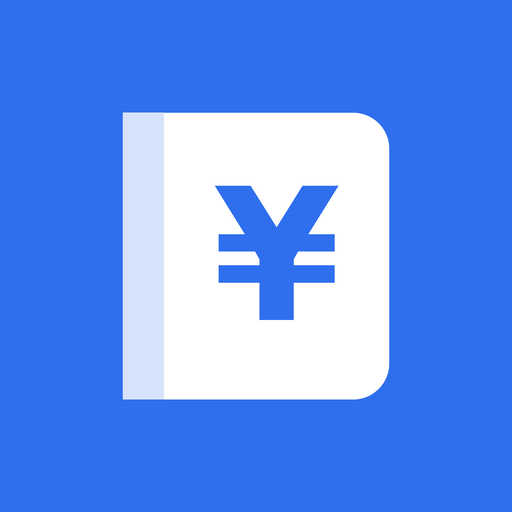
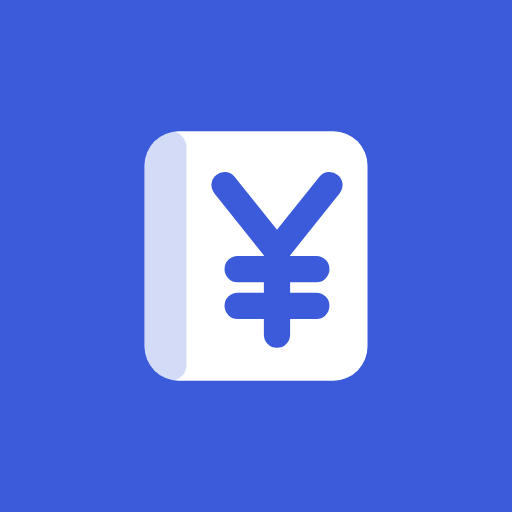
デザイン刷新：アプリのアイコンを藍色に・支払済の行の背景を消して落ち着かせる
Claude-Session: https://claude.ai/code/session_01NofKHzjq34ocPkvf8QEP8x

Changed region(s): [[0.2188, 0.2188, 0.7812, 0.7812], [0.4062, 0.3125, 0.6875, 0.6875], [0.4062, 0.3125, 0.5938, 0.4688]]

diff --git a/app.css b/app.css
@@ -2138,3 +2138,5 @@ body{background:var(--u-bg)}
 }
 .kb .setrow{min-height:44px}
 .kb .setsec{font-size:var(--fs-xs)!important;letter-spacing:.06em}
+.pay .v2 .row.st-paid{background:none}
+.pay .v2 .row.st-paid .sico{width:18px;height:18px}
